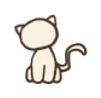
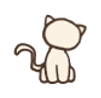
style(home): tilt Pickle's head on hover without moving her body
Her hover pose tilted left. It is now the same drawing mirrored, and so is her
resting pose, so her tail stays on one side instead of jumping across on
hover. The two poses share a body centre, lined up on her feet, so only her
head moves and she doesn't shift on the ledge. The mirrored tail sits on the
other side until there is a drawn right-tilt to use instead.

diff --git a/components/CatTree.tsx b/components/CatTree.tsx
@@ -148,7 +148,7 @@ const CATS: {
   { href: '/schedule', name: 'miso', inFront: [], rect: { x: 179, y: 61, w: 155, h: 179 }, hoverRect: { x: 138, y: 61, w: 196, h: 179 } },
   { href: '/health', name: 'pepper', inFront: ['tail'], rect: { x: 36, y: 514, w: 204, h: 147 }, hoverRect: { x: 36, y: 514, w: 203, h: 161 } },
   { href: '/about', name: 'mochi', inFront: ['head', 'tail'], rect: { x: 323, y: 933, w: 222, h: 147 }, hoverRect: { x: 348, y: 933, w: 197, h: 153 } },
-  { href: '/resources', name: 'pickle', rect: { x: 676, y: 684, w: 94, h: 94 }, hoverRect: { x: 668, y: 681, w: 101, h: 98 } },
+  { href: '/resources', name: 'pickle', rect: { x: 678, y: 684, w: 94, h: 94 }, hoverRect: { x: 678, y: 680, w: 101, h: 98 } },
 ]
 
 /* The two toys hang free, so they are lifted out of the drawing and swung on
